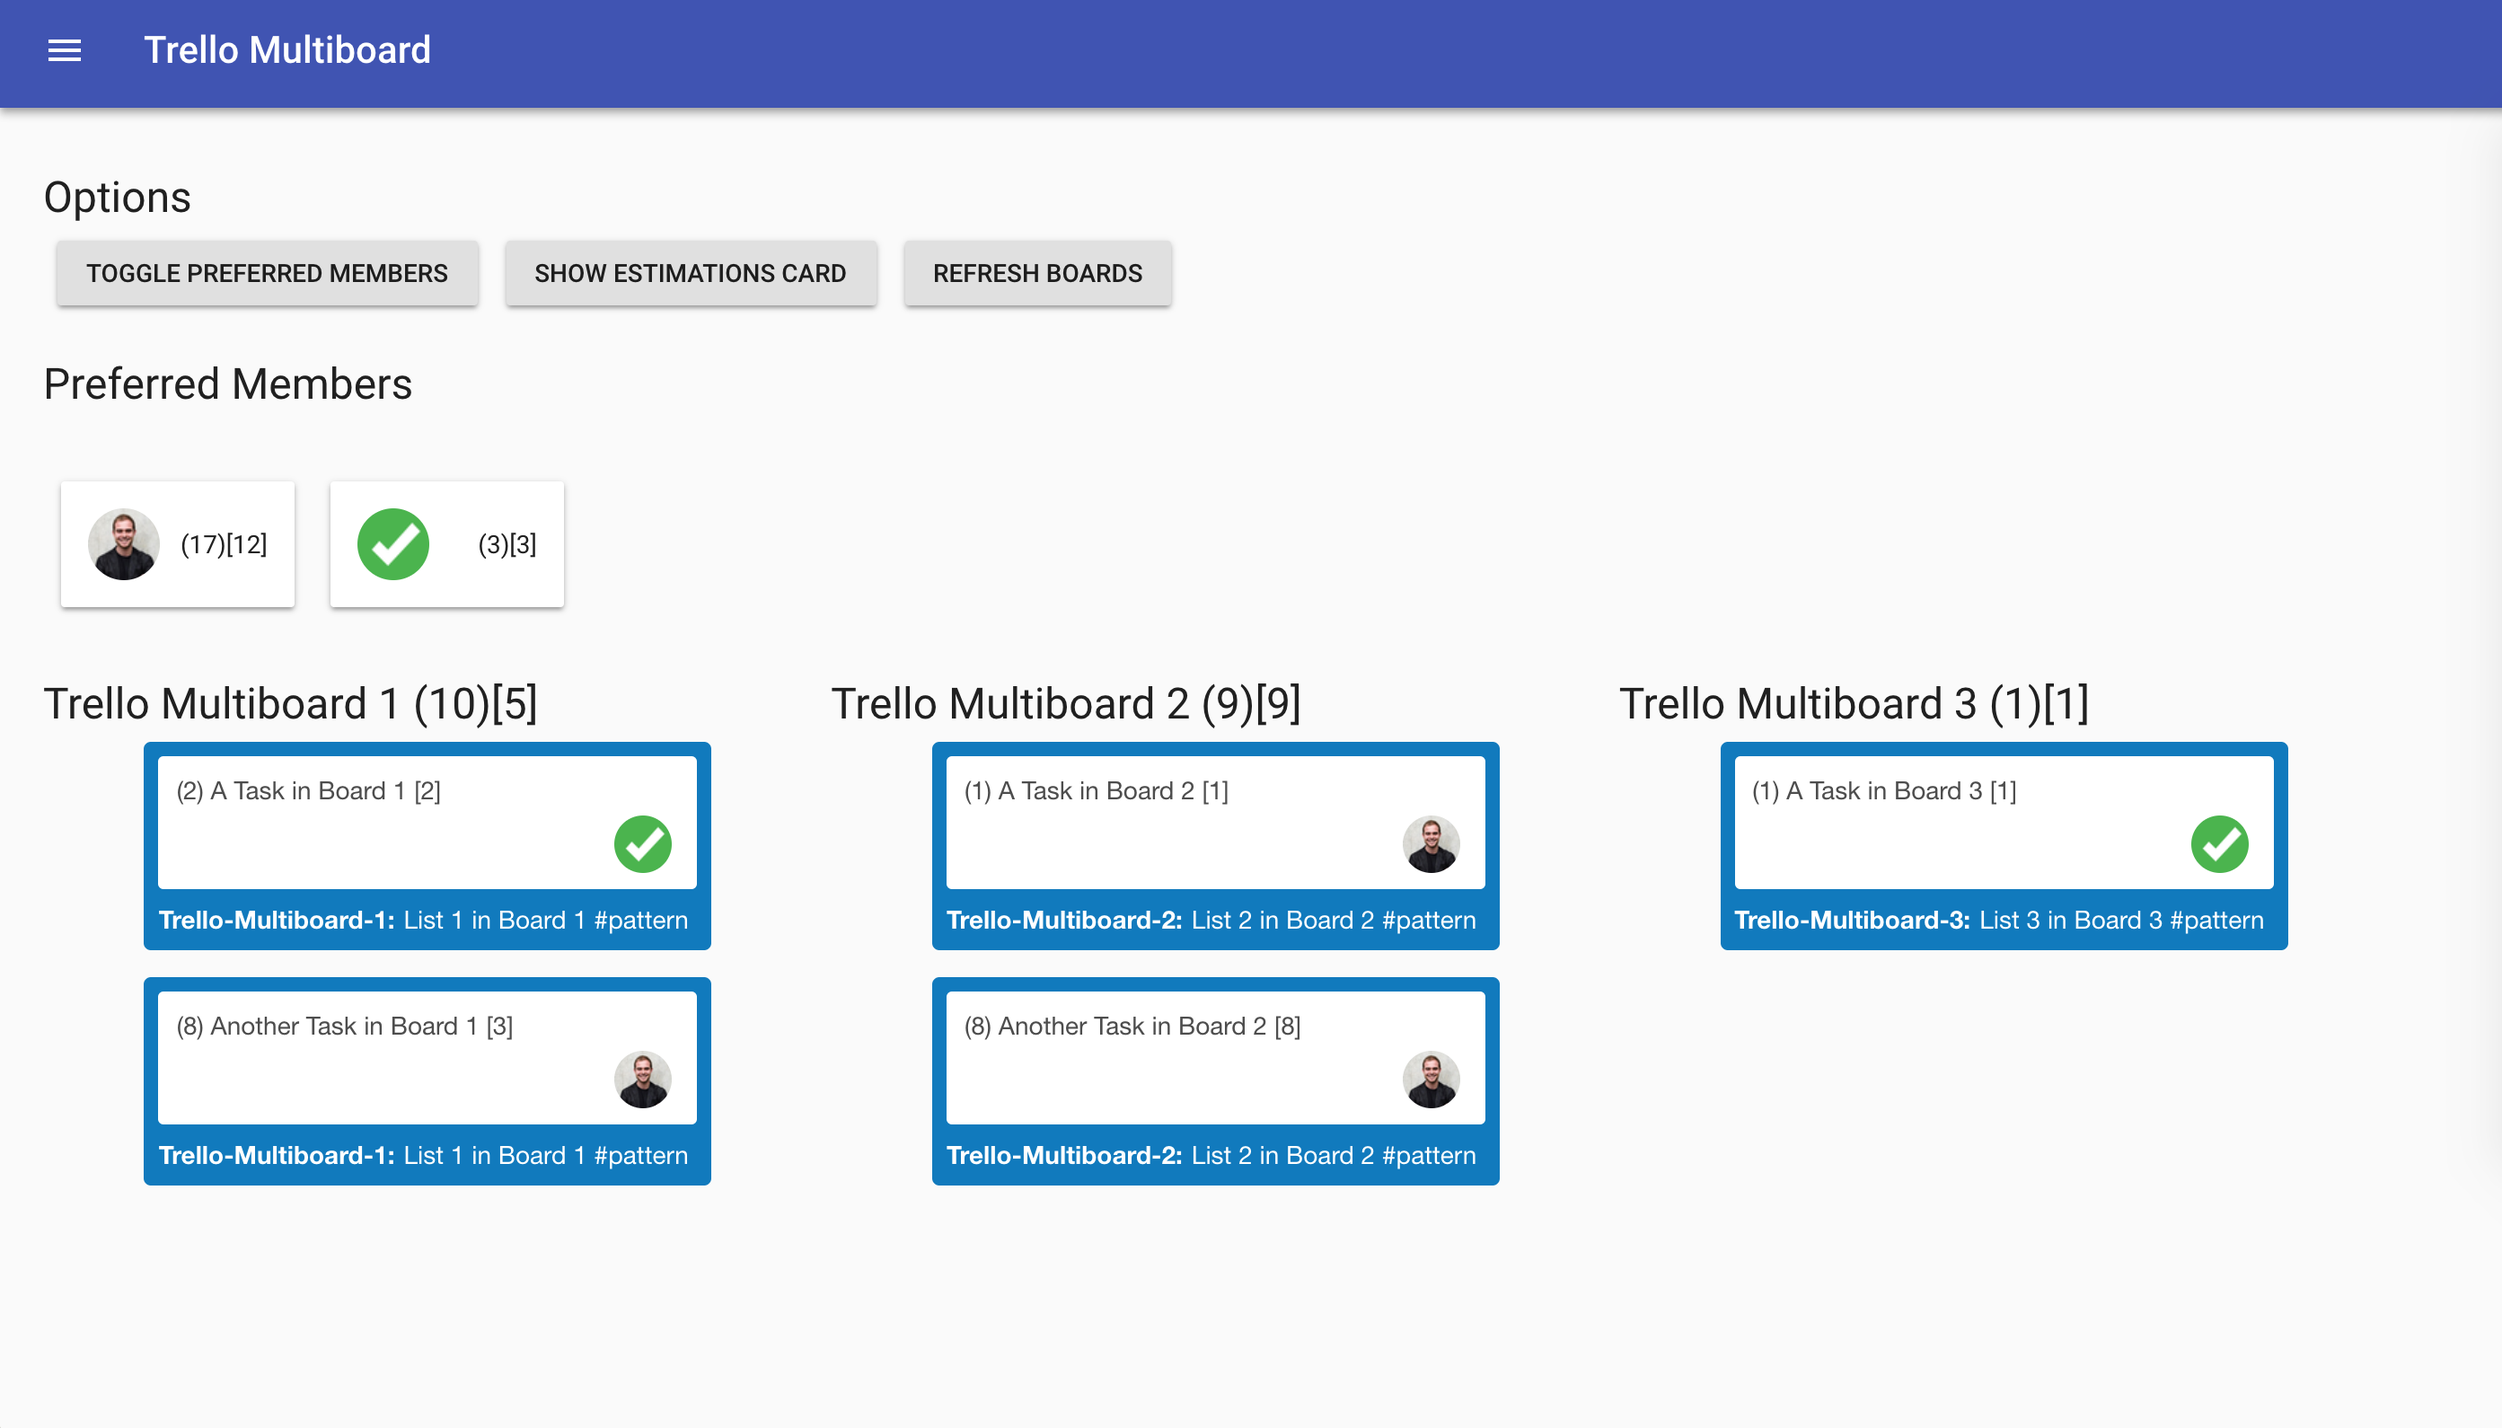
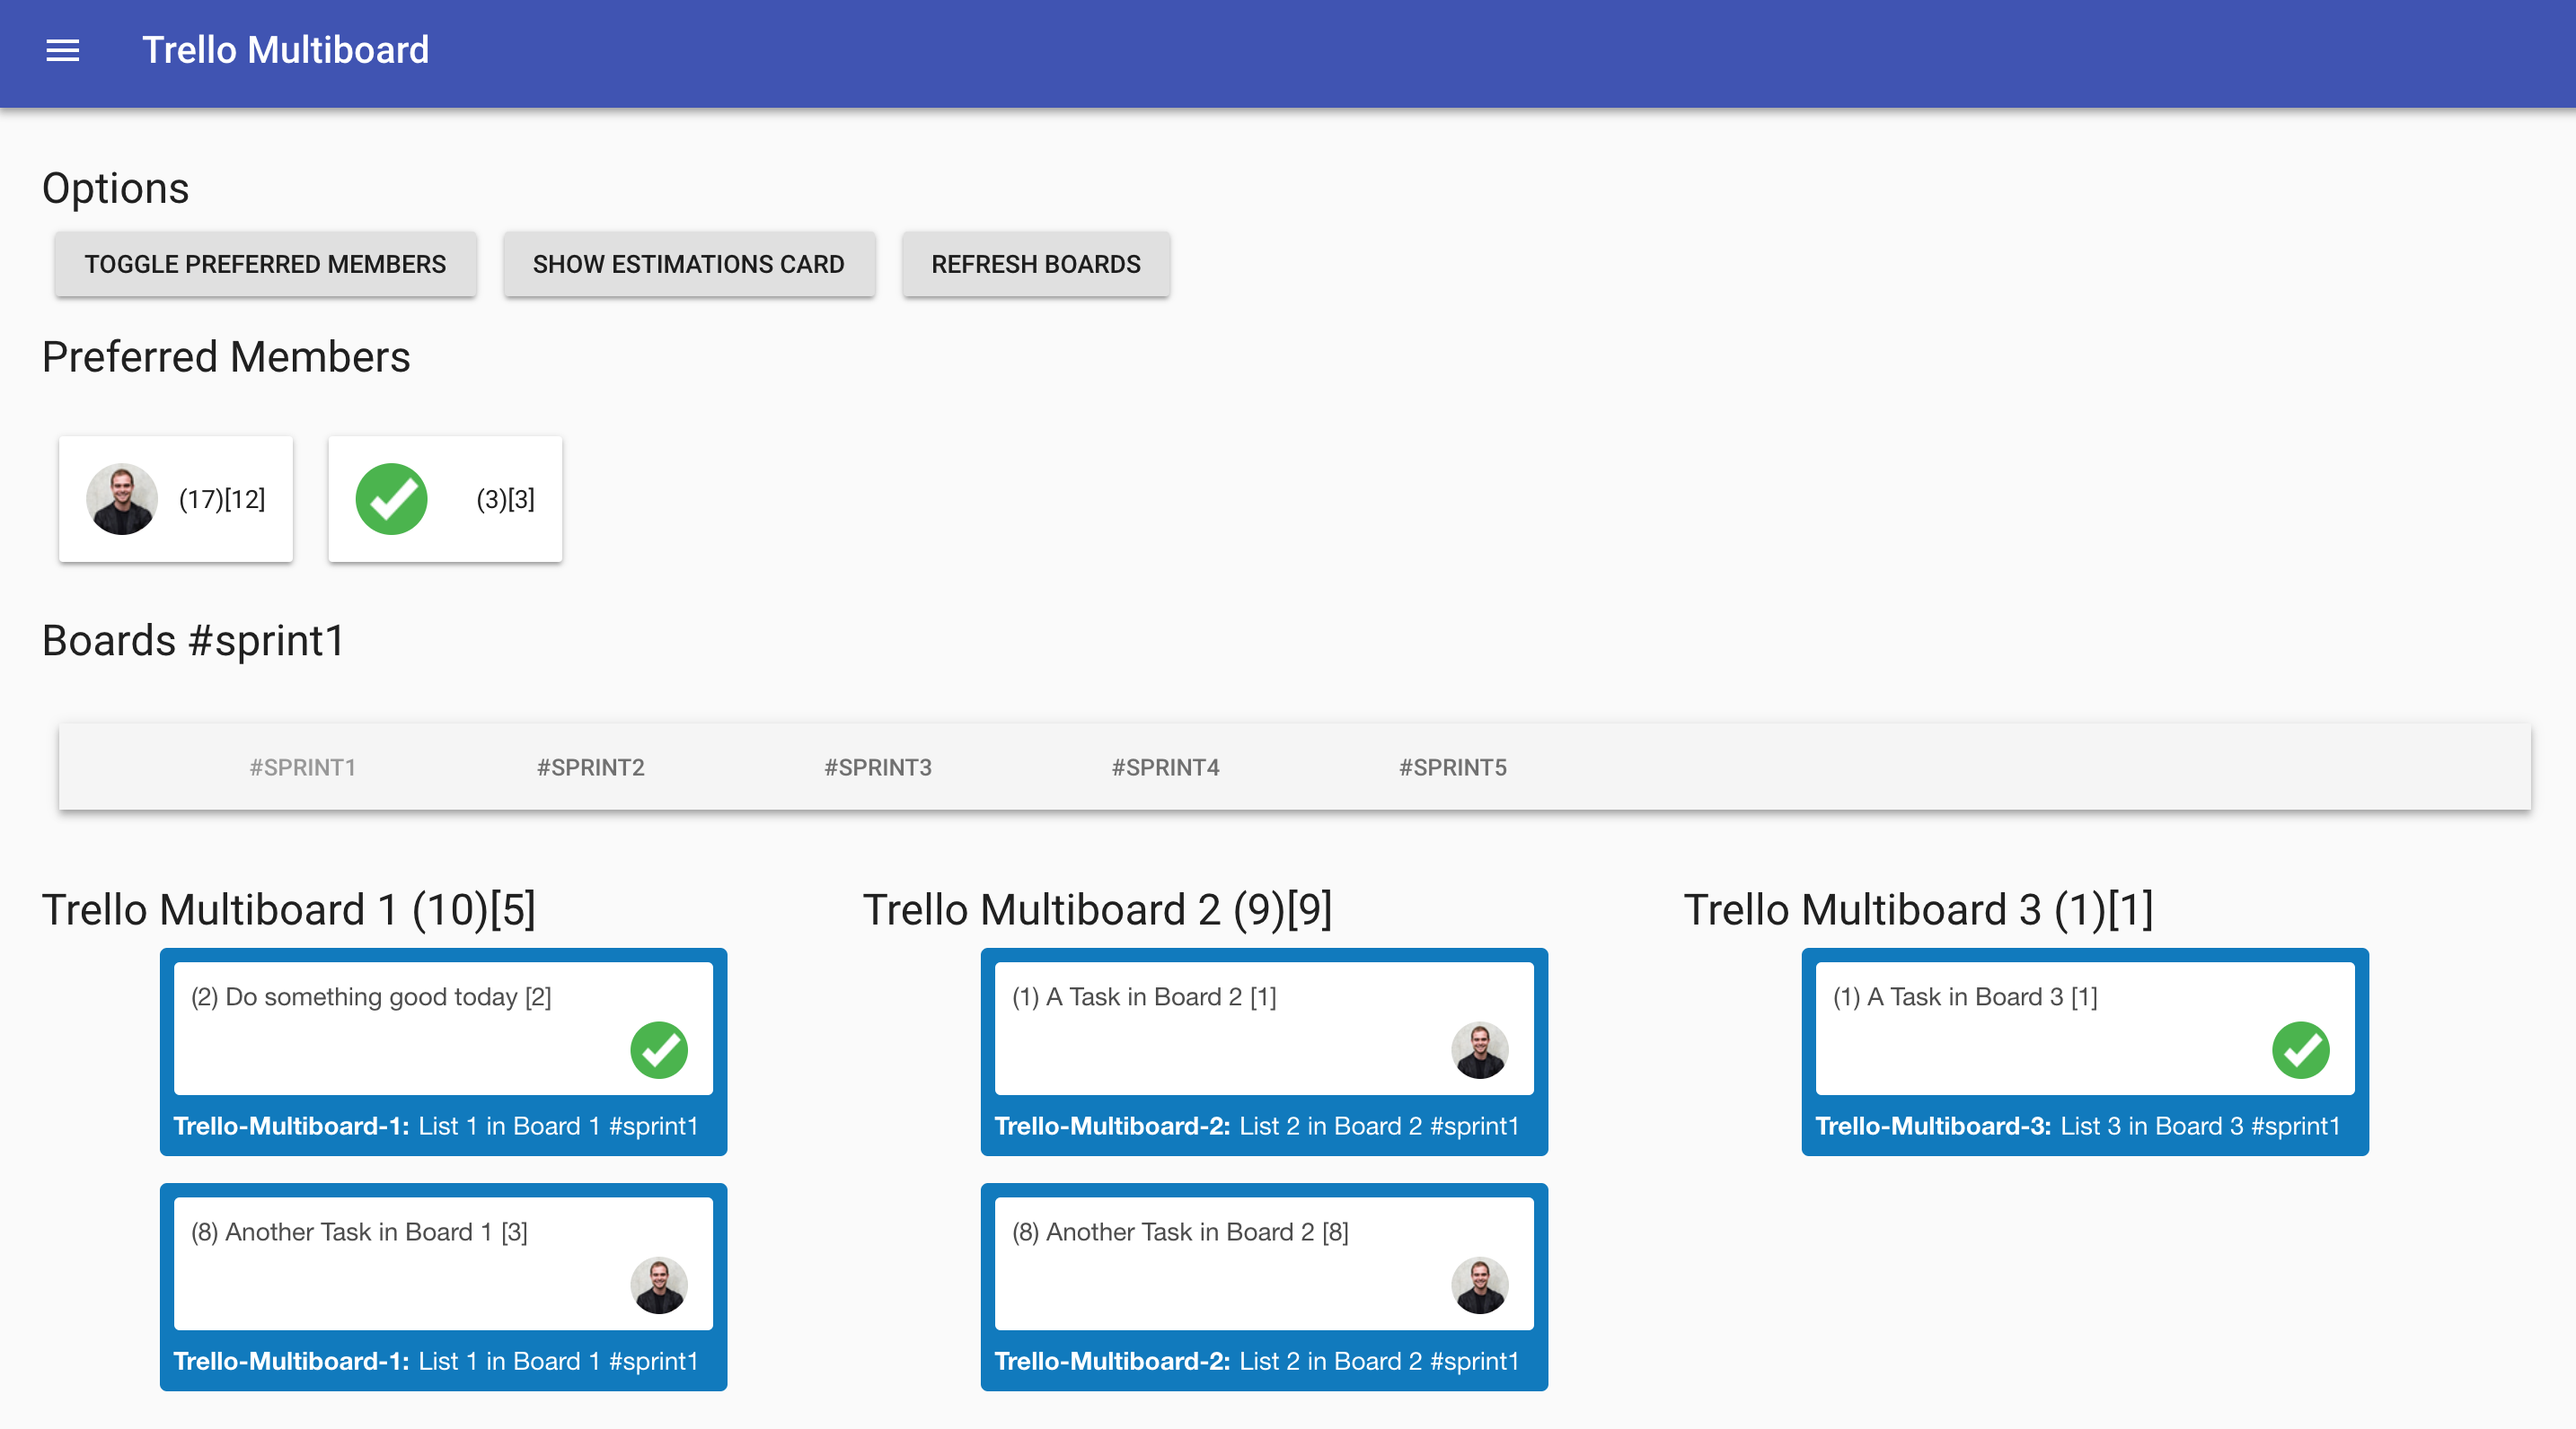
finalise PR

Changed region(s): [[0.0, 0.3082, 0.9681, 0.9862], [0.0, 0.1233, 0.4684, 0.2774], [0.0625, 0.0, 0.1874, 0.0616]]

diff --git a/src/components/main-app/component.js b/src/components/main-app/component.js
@@ -161,10 +161,12 @@ class MainApp extends React.Component {
               </BlockContainer>
             </React.Fragment>
           )}
-          <Typography variant="headline" component="h2">
-            Boards {get(this.props, 'app.listToggle.toggleList', '').replace(/\//g, '')}
-          </Typography>
-          <ListTabs />
+          <BlockContainer>
+            <Typography variant="headline" component="h2">
+              Boards {get(this.props, 'app.listToggle.toggleList', '').replace(/\//g, '')}
+            </Typography>
+            <ListTabs />
+          </BlockContainer>
           <BoardsList />
           {isAppLoading && (
             <div className={classes.bottomLoader}>

diff --git a/src/actions/app/index.js b/src/actions/app/index.js
@@ -13,10 +13,4 @@ const toggleList = pattern => ({ type: actions.TOGGLE_PREFERRED_LIST, pattern })
 
 const resetEstimations = pattern => ({ type: actions.RESET_ESTIMATIONS, pattern })
 
-// TODO: can most likely be removed when PR is ready
-// const toggleList = pattern => async dispatch => {
-//   await dispatch({ type: actions.RESET_ESTIMATIONS })
-//   await dispatch(toggleListAction(pattern))
-// }
-
 export { actions, togglePreferred, resetEstimations, togglePreferredMember, toggleList }

diff --git a/src/components/list-tabs/component.js b/src/components/list-tabs/component.js
@@ -12,12 +12,12 @@ const styles = () => ({
     flexGrow: 1,
     marginBottom: 30,
     marginTop: 30,
-    width: '100%',
+    width: '98vw',
+    paddingRight: 25,
+    paddingLeft: 10,
   },
 })
 
-// TODO:
-// - add tests and fix ui on smaller screens (padding/margin right)
 class ListTabs extends React.Component {
   handleChange = (event, value) => {
     this.props.changeListToggle(get(this.props, `listsConfig[${value}]`))

diff --git a/src/components/styled-components/index.js b/src/components/styled-components/index.js
@@ -2,7 +2,7 @@ import styled from 'styled-components'
 
 export const BlockContainer = styled.div`
   display: block;
-  padding: 10px 0;
+  padding: 5px 0;
 `
 
 // Trello like scrolling
@@ -15,7 +15,7 @@ export const ScrollContainer = styled.div`
   max-width: 100vw;
   min-width: 0;
   overflow-x: auto;
-  padding: 10px 0;
+  padding: 5px 0;
 
   &:after {
     content: '';

diff --git a/config/config.example.js b/config/config.example.js
@@ -4,11 +4,11 @@ module.exports = {
   api_key: 'your_api_key',
   company_member: 'exampleusername',
   preferred_members: /exampleusername|anotheruser/,
+  lists: [/#upcoming/],
   boards: [
     {
       shortcut: 'hw',
       board: 'hello-world',
-      lists: /#upcoming/,
       estimates_with_round_brackets: true,
       estimates_with_square_brackets: true,
     },

diff --git a/src/components/trello-card/card.js b/src/components/trello-card/card.js
@@ -4,7 +4,6 @@ import { map } from 'lodash'
 import FontAwesomeIcon from '@fortawesome/react-fontawesome'
 
 // TODO
-// - add tests
 // - handle case when avatarHash is null, use `initials` on user instead
 const TrelloCardUI = ({ badges, boardName, members, name, shortUrl, listName }) => (
   <a className="trello-card-wrapper" href={shortUrl}>

diff --git a/README.md b/README.md
@@ -52,10 +52,12 @@ preferred team members.
 ![TrelloMultiBoardExample](trello_multiboard_example.png)
 
 As you can see in the example, there are three trello boards and two members.
-From each board all cards of a list matching the `#pattern` pattern in the
+From each board all cards of a list matching the `#sprint1` pattern in the
 title (can be any pattern, defined in [config.js](config/config.example.js)) is
 listed below. Each member can be selected, which causes the list of cards to only
-show those of the selected member.
+show those of the selected member. Additionally, you see five sprints on the page.
+You can select one sprint and see the cards of the selected pattern. This allows
+you to plan ahead.
 
 ## Development & Build Requirements
 
